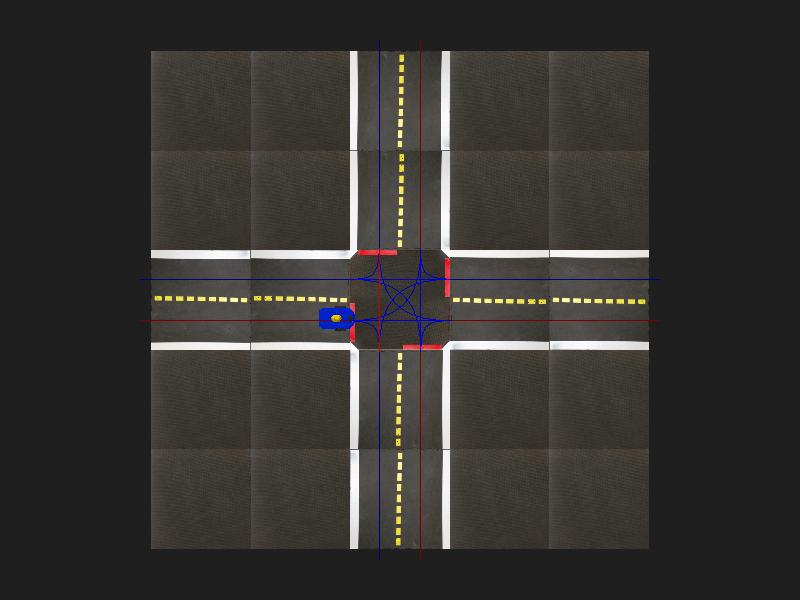
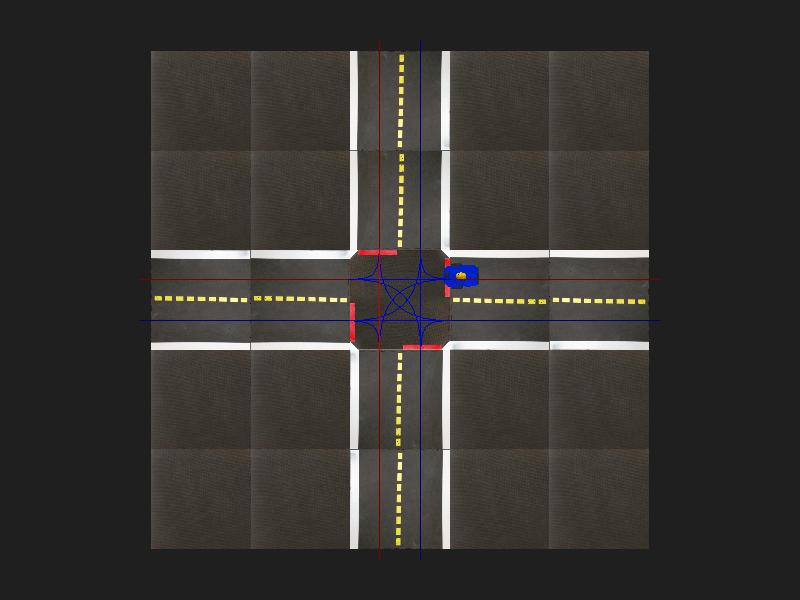
working movement

diff --git a/agents/french.py b/agents/french.py
@@ -1,0 +1,155 @@
+#!/usr/bin/env python
+# manual
+
+"""
+This script uses the ite_move library to make a right turn through an intersection
+"""
+from PIL import Image
+import argparse
+import sys
+
+import gym
+import numpy as np
+import pyglet
+from pyglet.window import key
+
+from gym_duckietown.envs import DuckietownEnv
+
+# Includes all important moving functions for if then else agents
+#import movement as move
+import gym_duckietown.agents
+import logging
+
+# from experiments.utils import save_img
+
+parser = argparse.ArgumentParser()
+parser.add_argument("--env-name", default=None)
+parser.add_argument("--map-name", default="udem1")
+parser.add_argument("--distortion", default=False, action="store_true")
+parser.add_argument("--camera_rand", default=False, action="store_true")
+parser.add_argument("--draw-curve", action="store_true", help="draw the lane following curve")
+parser.add_argument("--draw-bbox", action="store_true", help="draw collision detection bounding boxes")
+parser.add_argument("--domain-rand", action="store_true", help="enable domain randomization")
+parser.add_argument("--dynamics_rand", action="store_true", help="enable dynamics randomization")
+parser.add_argument("--frame-skip", default=1, type=int, help="number of frames to skip")
+parser.add_argument("--seed", default=1, type=int, help="seed")
+parser.add_argument("--cam-mode", default="human", help="Camera modes: human, top_down, free_cam, rgb_array")
+parser.add_argument("--safety-factor", default=1.0, type=float, help="Minimum distance before collision detection")
+parser.add_argument("--num-agents", default=1.0, type=int, help="Number of Agents")
+args = parser.parse_args()
+
+if args.env_name and args.env_name.find("Duckietown") != -1:
+    env = DuckietownEnv(
+        seed=args.seed,
+        map_name=args.map_name,
+        cam_mode=args.cam_mode,
+        safety_factor=args.safety_factor,
+        num_agents=args.num_agents,
+        draw_curve=args.draw_curve,
+        draw_bbox=args.draw_bbox,
+        domain_rand=args.domain_rand,
+        frame_skip=args.frame_skip,
+        distortion=args.distortion,
+        camera_rand=args.camera_rand,
+        dynamics_rand=args.dynamics_rand,
+        full_transparency=True
+    )
+else:
+    env = gym.make(args.env_name)
+
+# Start up env
+env.reset()
+env.render(args.cam_mode)
+
+# Global holders for each agents actions
+
+def update(dt):
+    """
+    This function is called at every frame to handle
+    movement/stepping and redrawing
+    """
+    # Get the agents
+    agent0 = env.agents[0] 
+    agent1 = env.agents[1] 
+    agent2 = env.agents[2] 
+    agent3 = env.agents[3] 
+
+    speed0 = 0.2
+    speed1 = 0.1
+    speed2 = 0.8
+    speed3 = 0.4
+    turn = 'Left'
+
+    """
+    # If we are not handling a sequence already, try for agent 0
+    if not agent0.actions:
+        if agent0.intersection_detected(env):
+            print("HIT THIS CASE")
+            agent0.add_actions(agent0.handle_intersection(env, choice=turn, forward_step=speed0))
+        else: 
+            agent0.add_actions(agent0.move_forward(env, forward_step=speed0))
+
+    # If we are not handling a sequence already, try for agent 1
+    if not agent1.actions:
+        if agent1.intersection_detected(env):
+            agent1.add_actions(agent1.handle_intersection(env, choice=turn, forward_step=speed1))
+        else: 
+            agent1.add_actions(agent1.move_forward(env, forward_step=speed1))
+
+    # If we are not handling a sequence already, try for agent 1
+    if not agent2.actions:
+        if agent2.intersection_detected(env):
+            agent2.add_actions(agent2.handle_intersection(env, choice=turn, forward_step=speed2))
+        else: 
+            agent2.add_actions(agent2.move_forward(env, forward_step=speed2))
+
+     # If we are not handling a sequence already, try for agent 1
+    if not agent3.actions:
+        if agent3.intersection_detected(env):
+            agent3.add_actions(agent3.handle_intersection(env, choice=turn, forward_step=speed3))
+        else: 
+            agent3.add_actions(agent3.move_forward(env, forward_step=speed3))
+    """ 
+
+    while True:
+        lane_pose = env.get_lane_pos(env.cur_pos, env.cur_angle)
+        distance_to_road_center = lane_pose.dist
+        angle_from_straight_in_rads = lane_pose.angle_rad
+
+        ###### Commencez à remplir le code ici.
+        k_p = 10
+        k_d = 1
+
+        # La vitesse est une valeur entre 0 et 1 (correspond à une vitesse réelle de 0 à 1,2m/s)
+
+        vitesse = 0.44  # You should overwrite this value
+        # l'angle du volant, c'est-à-dire le changement d'angle de la voiture en rads/s
+        braquage = (
+            k_p * distance_to_road_center + k_d * angle_from_straight_in_rads
+        )  # You should overwrite this value
+
+        ###### Fini à remplir le code ici
+        agent0.render_step(env, ([vitesse, braquage]))
+
+        env.render()
+    # Render each agent's next move
+    if agent0.actions:
+        agent0.render_step(env, agent0.get_next_action())
+    if agent1.actions:
+        agent1.render_step(env, agent1.get_next_action())
+    if agent2.actions:
+        agent2.render_step(env, agent2.get_next_action())
+    if agent3.actions:
+        agent3.render_step(env, agent3.get_next_action())
+   
+    # render the cam
+    env.render(env.cam_mode)
+
+# Enter main event loop
+pyglet.clock.schedule_interval(update, 1.0 / (env.unwrapped.frame_rate))
+pyglet.app.run()
+
+env.close()
+
+
+    

diff --git a/src/gym_duckietown/agent/_agent_movement.py b/src/gym_duckietown/agent/_agent_movement.py
@@ -2,6 +2,7 @@ from .. import logger
 from ..dl_utils import *
 import numpy as np
 import math
+import time
 #--------------------------
 # Movement
 #--------------------------
@@ -62,6 +63,9 @@ def straighten_out(self, env, intersection=False):
 
     # Get forward step
     forward_step = self.forward_step
+    control_gain = 2
+    speed_proportional_gain = 3.0
+
     #print(self.turn_choice)
 
     if forward_step == 0.0:
@@ -90,9 +94,9 @@ def straighten_out(self, env, intersection=False):
         # then find the closest point to to that
         follow_point = closest_point + closest_tangent * lookup_distance
         if self.states['at_intersection_entry'] or self.states['in_intersection']:
-            curve_point, _ = env.closest_curve_point(follow_point, self.cur_angle, index=self.curve)
+            curve_point, curve_tangent = env.closest_curve_point(follow_point, self.cur_angle, index=self.curve)
         else:
-            curve_point, _ = env.closest_curve_point(follow_point, self.cur_angle, index=None)
+            curve_point, curve_tangent = env.closest_curve_point(follow_point, self.cur_angle, index=None)
         # If we have a valid point on the curve, stop
         if curve_point is not None:
             break
@@ -100,16 +104,36 @@ def straighten_out(self, env, intersection=False):
         iterations += 1
         lookup_distance *= 0.5
 
-    # Compute a normalized vector to the curve point
     point_vec = curve_point - self.cur_pos
     point_vec /= np.linalg.norm(point_vec)
     dot = np.dot(get_right_vec(self.cur_angle), point_vec)
-    #print(dot)
-    #print(vars(self.state))
-    #print(self.speed)
+    # Compute a normalized vector to the curve point
+    """
+    point_vec = curve_point - self.cur_pos
+    point_vec /= np.linalg.norm(point_vec)
+    point_vec_error = np.dot(get_right_vec(self.cur_angle), point_vec)
+    cross_track_error = np.arctan2(control_gain * point_vec_error, self.speed)
+
+    # Computer normalized angle error:
+    direction_vec = get_dir_vec(self.cur_angle)
+    direction_vec_error = np.dot(direction_vec, curve_tangent)
+    direction_vec_error = np.clip(direction_vec_error, -1.0, +1.0)
+    
+    total_error = direction_vec_error + cross_track_error
+    print(total_error)
+    """
+
+    if self.states['at_intersection_entry'] or self.states['in_intersection']:
+        print('this index')
+        lane_pos = env.get_lane_pos2(self.cur_pos, self.cur_angle, index=self.curve)
+    else:
+        print("HEREERE")
+        lane_pos = env.get_lane_pos2(self.cur_pos, self.cur_angle)
+   
 
     # General Case
-    steering = 2 * -dot
+    """
+    steering = (self.forward_step * 10) * -dot
     ready_to_accelerate = False
     if self.direction == 'N' and 88 < self.get_curr_angle(env) < 92:
         ready_to_accelerate = 'N'
@@ -119,28 +143,39 @@ def straighten_out(self, env, intersection=False):
         ready_to_accelerate = 'E'
     elif self.direction == 'W' and 178 < self.get_curr_angle(env) < 182:
         ready_to_accelerate = 'W'
+    """
 
     if self.states['in_intersection'] or self.states['at_intersection_entry']:# or not ready_to_accelerate:
         #if not ready_to_accelerate:
         #    print(f"Not ready to accel: {ready_to_accelerate}")
         if self.turn_choice == 'Right':
-            forward_step = .20
-            steering = (forward_step * 30) * -dot
+            forward_step = .35
+            control_gain = 20
+
         if self.turn_choice == 'Left':
-            forward_step = .30
+            forward_step = .60
+            control_gain = 20
             #steering = (forward_step * 13) * -dot
-            steering = 5 * -dot
-    else:
-        # Limit radius of curvature
-        wheel_distance = 0.102
-        min_rad = 0.06
 
-        if forward_step == 0 or abs(steering / forward_step) > (min_rad + wheel_distance / 2.0) / (min_rad - wheel_distance / 2.0):
-            # adjust velocities evenly such that condition is fulfilled
-            delta_v = (steering - forward_step) / 2 - wheel_distance / (4 * min_rad) * (forward_step + steering)
-            forward_step += delta_v
-            steering -= delta_v
+    cross_track_error = lane_pos.dist
+    direction_error = lane_pos.angle_rad
+    total_error = cross_track_error + direction_error
+    print(f"CTE: {cross_track_error} DR: {direction_error} TE: {total_error}")
+    steering = total_error * control_gain
+    forward_step = (forward_step - self.speed) - cross_track_error * speed_proportional_gain
+    #else:
+    # Limit radius of curvature
+    wheel_distance = 0.102
+    min_rad = 0.8
+    speed = self.speed
 
+    #if forward_step == 0 or abs(speed / forward_step) > (min_rad + wheel_distance / 2.0) / (min_rad - wheel_distance / 2.0):
+    #    # adjust velocities evenly such that condition is fulfilled
+    #    delta_v = (forward_step - speed) / 2 - wheel_distance / (4 * min_rad) * (forward_step + steering)
+    #    forward_step += delta_v
+    #k    steering -= delta_v
+ 
+ 
     if intersection:
         actions.append(([forward_step, steering], Action.INTERSECTION_FORWARD))
     else:

diff --git a/agents/french2.py b/agents/french2.py
@@ -52,32 +52,37 @@ def test(args):
     # Start up env
     env.reset()
     
-    for i in range(1, args.num_iterations):
-        # Reset the state
-        env.reset()
-        done = False
-        #print(f"forward_step {env.agents[0].forward_step}")
-        agent = env.agents[0]
-        agent.turn_choice = 'Right'
-        agent.curve = agent.get_curve(env)
-        #print(agent.turn_choice)
+    agent = env.agents[0]
+    agent.turn_choice = 'Left'
+    agent.curve = agent.get_curve(env)
+    #print(agent.turn_choice)
 
-        # Learn until episode over
-        while not done:
+    # Learn until episode over
+    while True:
 
-            # If not in the middle of an action, get one
-            if not agent.actions:
-                if agent.intersection_detected(env):
-                    agent.add_actions(agent.handle_intersection(env, learning=True))
-                else: 
-                    agent.add_actions(agent.move_forward(env))
+        lane_pose = env.get_lane_pos2(agent.cur_pos, agent.cur_angle)
+        distance_to_road_center = lane_pose.dist
+        angle_from_straight_in_rads = lane_pose.angle_rad
+
+        ###### Commencez à remplir le code ici.
+        k_p = 10
+        k_d = 1
+
+        # La vitesse est une valeur entre 0 et 1 (correspond à une vitesse réelle de 0 à 1,2m/s)
+
+        vitesse = 0.44  # You should overwrite this value
+        # l'angle du volant, c'est-à-dire le changement d'angle de la voiture en rads/s
+        braquage = (
+            k_p * distance_to_road_center + k_d * angle_from_straight_in_rads
+        )  # You should overwrite this value
+
+        ###### Fini à remplir le code ici
+        print(braquage)
+        action = np.array([vitesse, braquage]) , 1
+        agent.render_step(env, action)
+        env.render(mode=args.cam_mode)
 
 
-            agent.proceed(env,good_agent=True)
-            _, _, done, misc = env.step(agent.get_next_action(), agent, learning=True)
-            done_code = misc['done_code']
-
-            env.render(mode=args.cam_mode)
     
 # Main - Get arguments and train using Q learning
 if __name__ == "__main__":

diff --git a/src/gym_duckietown/simulator.py b/src/gym_duckietown/simulator.py
@@ -1437,7 +1437,7 @@ class Simulator(gym.Env):
 
         return point, tangent
 
-    def get_lane_pos2(self, pos, angle):
+    def get_lane_pos2(self, pos, angle, index=None):
         """
         Get the position of the agent relative to the center of the right lane
 
@@ -1446,7 +1446,7 @@ class Simulator(gym.Env):
 
         # Get the closest point along the right lane's Bezier curve,
         # and the tangent at that point
-        point, tangent = self.closest_curve_point(pos, angle)
+        point, tangent = self.closest_curve_point(pos, angle, index=index)
         if point is None or tangent is None:
             msg = f"Point not in lane: {pos}"
             raise NotInLane(msg)
@@ -2416,7 +2416,8 @@ class Simulator(gym.Env):
 
             agent.color = color
             agent.mesh = get_duckiebot_mesh(agent.color)
-            agent.forward_step = round(self.np_random.uniform(0.3, 0.7), 2)
+            #agent.forward_step = round(self.np_random.uniform(0.3, 0.7), 2)
+            agent.forward_step = round(self.np_random.uniform(0.5, 0.9), 2)
 
             # Choose a random position on this tile
             if direction == 'N':
